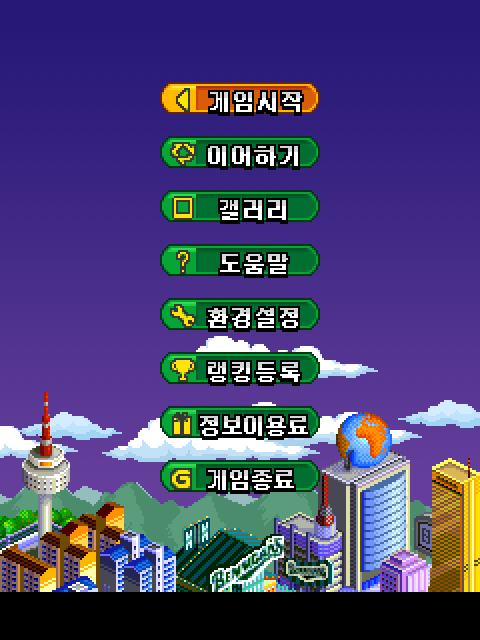
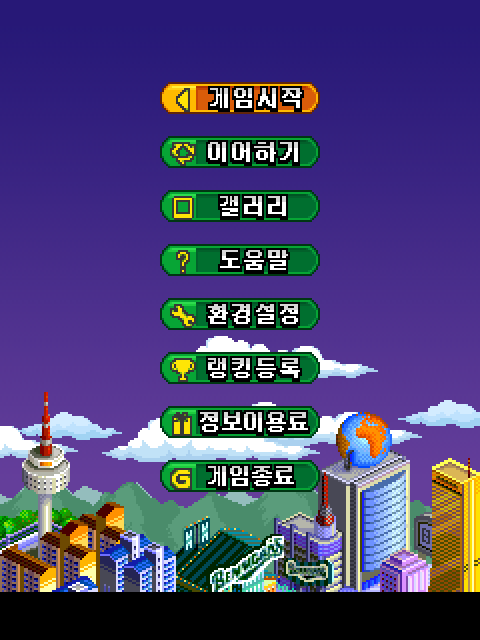
서울타이쿤2: 메인 메뉴 글자 세로 위치 보정(MENU_DY=2)

diff --git a/seoultycoon/tools/wipi_rt.py b/seoultycoon/tools/wipi_rt.py
@@ -547,6 +547,7 @@ def _(this, c): return 1
 def _(this, a, b): pass
 
 # ================================================================== WIPI API
+MENU_DY = int(os.environ.get('MENU_DY', '2'))
 MENU_DX = int(os.environ.get('MENU_DX', '12'))
 TEXT_DY = int(os.environ.get('TEXT_DY', '2'))
 FONT = ImageFont.truetype(os.path.join(os.path.dirname(os.path.abspath(__file__)), '..', 'android', 'assets', 'galmuri11.ttf'), int(os.environ.get('FONTSZ', '11')))
@@ -667,7 +668,7 @@ def _(this, im, x, y, anchor):
     if anchor & 2: y -= src.height // 2
     if anchor & 32: y -= src.height
     if src.size == (56, 96) and s.clip and s.clip[3] == 12:           # 메인 메뉴 글자 시트: 막대 홈 중앙(≈127)에 오도록 보정
-        x -= MENU_DX; s.clip = (s.clip[0] - MENU_DX, s.clip[1], s.clip[2], s.clip[3])
+        x -= MENU_DX; y -= MENU_DY; s.clip = (s.clip[0] - MENU_DX, s.clip[1] - MENU_DY, s.clip[2], s.clip[3])
     clipped(s, (x, y, x + src.width, y + src.height), lambda: s.img.paste(src, (x, y), src))
 @impl(G, '(Ljava/lang/String;III)V+drawString')
 def _(this, st, x, y, anchor):
